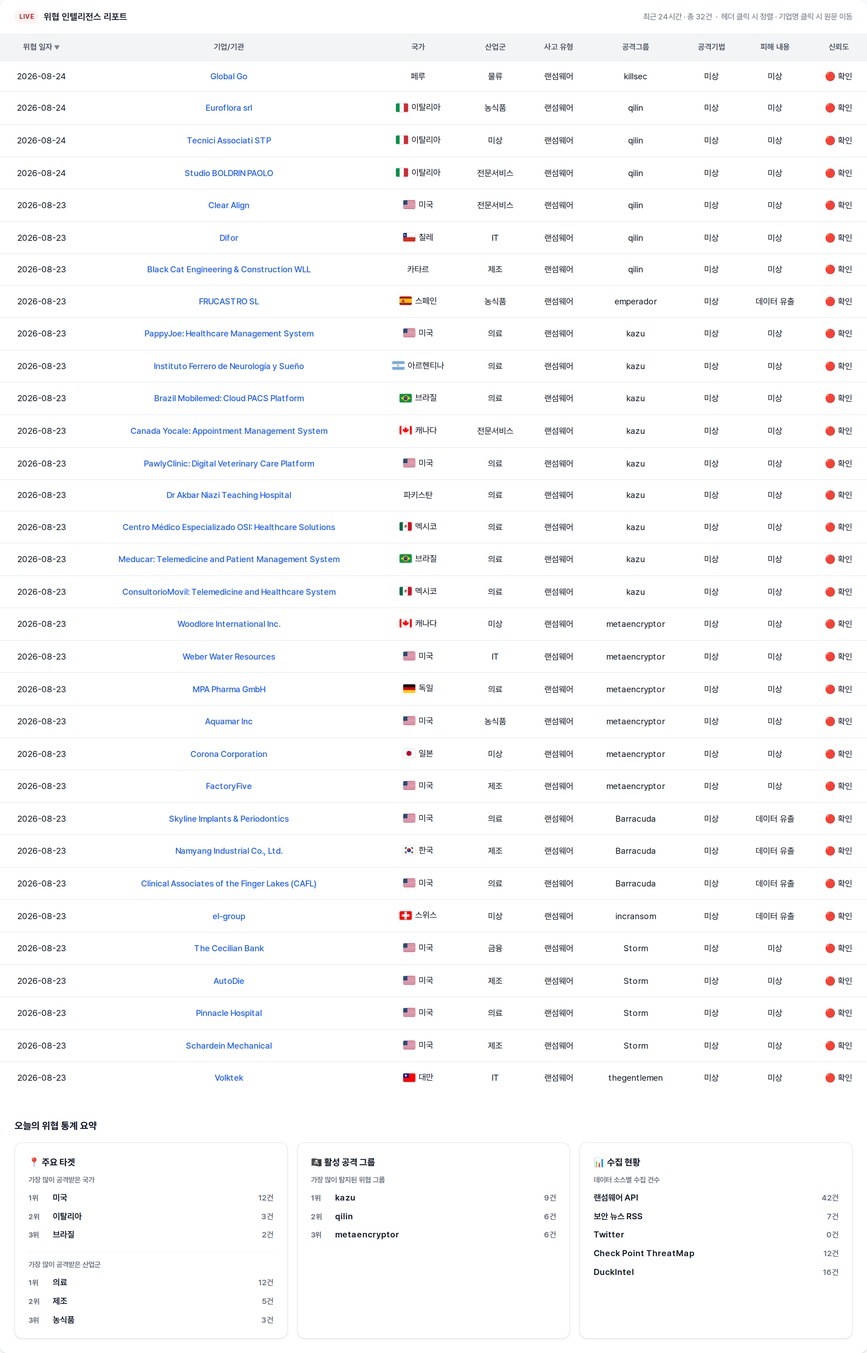
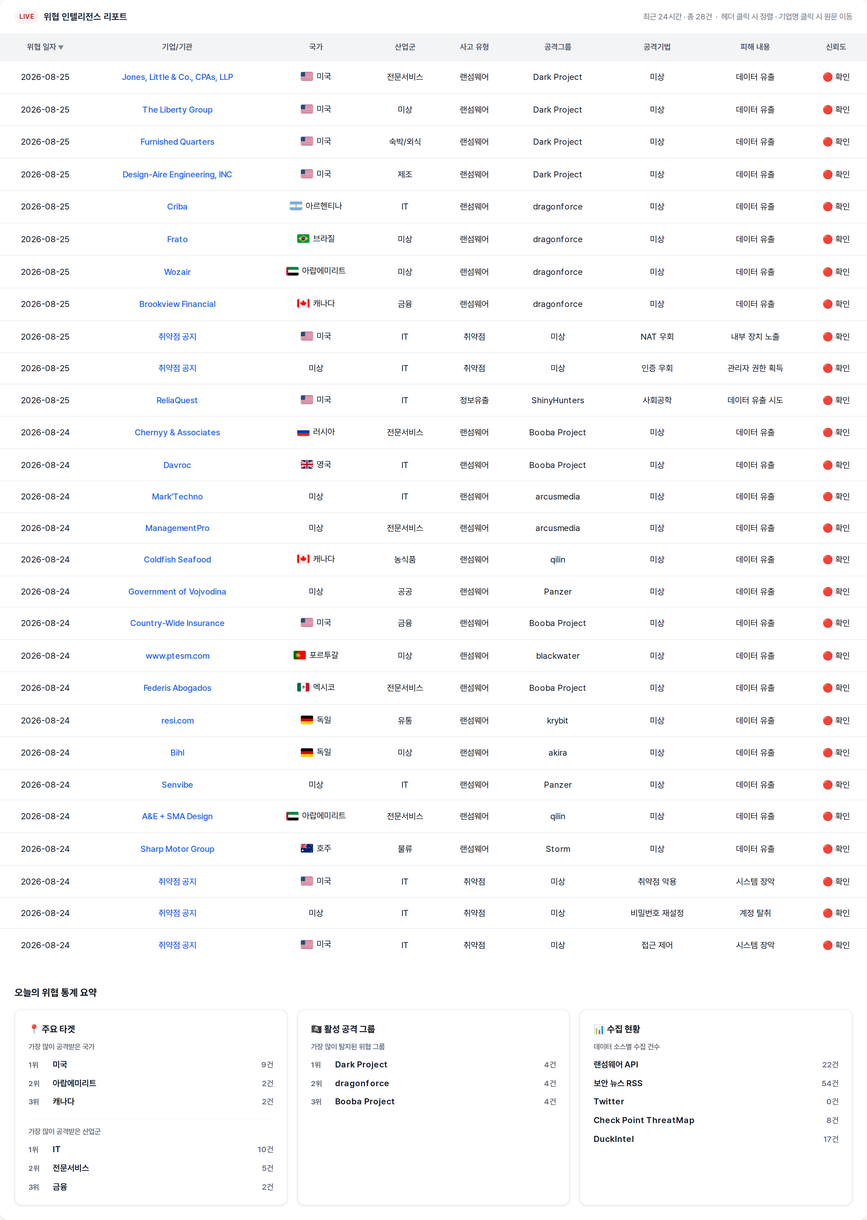
deploy: 9c533ad8fcaa3f846a31aadab046301a26f1192c

diff --git a/index.html b/index.html
@@ -3,7 +3,7 @@
 <head>
   <meta charset="UTF-8" />
   <meta name="viewport" content="width=device-width, initial-scale=1.0" />
-  <title>🚨 2026년 08월 24일 국내/해외 사이버 위협 현황</title>
+  <title>🚨 2026년 08월 25일 국내/해외 사이버 위협 현황</title>
   <link rel="preconnect" href="https://cdn.jsdelivr.net" />
   <link href="https://cdn.jsdelivr.net/gh/orioncactus/pretendard/dist/web/static/pretendard.css" rel="stylesheet" />
   <style>
@@ -253,7 +253,7 @@
 </head>
 <body>
   <div class="page-header">
-    <h1 class="page-title">🚨 2026년 08월 24일 국내/해외 사이버 위협 현황</h1>
+    <h1 class="page-title">🚨 2026년 08월 25일 국내/해외 사이버 위협 현황</h1>
   </div>
 
   <div class="dashboard">
@@ -261,44 +261,40 @@
     <div class="card-header">
       <span class="badge">LIVE</span>
       <span class="card-title">위협 인텔리전스 리포트</span>
-      <span class="card-count">최근 24시간 · 총 32건 &nbsp;·&nbsp; 헤더 클릭 시 정렬 · 기업명 클릭 시 원문 이동</span>
+      <span class="card-count">최근 24시간 · 총 28건 &nbsp;·&nbsp; 헤더 클릭 시 정렬 · 기업명 클릭 시 원문 이동</span>
     </div>
     <div class="table-wrap" style="overflow-x: auto; -webkit-overflow-scrolling: touch;">
       <table id="threat-table">
         <thead><tr><th onclick="sortTable(0)" data-col="0" class="sort-desc">위협 일자</th><th onclick="sortTable(1)" data-col="1">기업/기관</th><th onclick="sortTable(2)" data-col="2">국가</th><th onclick="sortTable(3)" data-col="3">산업군</th><th onclick="sortTable(4)" data-col="4">사고 유형</th><th onclick="sortTable(5)" data-col="5">공격그룹</th><th onclick="sortTable(6)" data-col="6">공격기법</th><th onclick="sortTable(7)" data-col="7">피해 내용</th><th onclick="sortTable(8)" data-col="8">신뢰도</th></tr></thead>
         <tbody>
-<tr><td>2026-08-24</td><td><a href="https://www.ransomware.live/id/R2xvYmFsIEdvQGtpbGxzZWM=" target="_blank" rel="noopener noreferrer">Global Go</a></td><td class="country"><span class="country-cell">페루</span></td><td>물류</td><td>랜섬웨어</td><td>killsec</td><td>미상</td><td>미상</td><td>🔴 확인</td></tr>
-<tr><td>2026-08-24</td><td><a href="https://www.ransomware.live/id/RXVyb2Zsb3JhIHNybEBxaWxpbg==" target="_blank" rel="noopener noreferrer">Euroflora srl</a></td><td class="country"><span class="country-cell"><img class="flag" src="https://flagcdn.com/w40/it.png" alt="이탈리아" width="20" height="14" />이탈리아</span></td><td>농식품</td><td>랜섬웨어</td><td>qilin</td><td>미상</td><td>미상</td><td>🔴 확인</td></tr>
-<tr><td>2026-08-24</td><td><a href="https://www.ransomware.live/id/VGVjbmljaSBBc3NvY2lhdGkgU1RQQHFpbGlu" target="_blank" rel="noopener noreferrer">Tecnici Associati STP</a></td><td class="country"><span class="country-cell"><img class="flag" src="https://flagcdn.com/w40/it.png" alt="이탈리아" width="20" height="14" />이탈리아</span></td><td>미상</td><td>랜섬웨어</td><td>qilin</td><td>미상</td><td>미상</td><td>🔴 확인</td></tr>
-<tr><td>2026-08-24</td><td><a href="https://www.ransomware.live/id/U3R1ZGlvIEJPTERSSU4gUEFPTE9AcWlsaW4=" target="_blank" rel="noopener noreferrer">Studio BOLDRIN PAOLO</a></td><td class="country"><span class="country-cell"><img class="flag" src="https://flagcdn.com/w40/it.png" alt="이탈리아" width="20" height="14" />이탈리아</span></td><td>전문서비스</td><td>랜섬웨어</td><td>qilin</td><td>미상</td><td>미상</td><td>🔴 확인</td></tr>
-<tr><td>2026-08-23</td><td><a href="https://www.ransomware.live/id/Q2xlYXIgQWxpZ25AcWlsaW4=" target="_blank" rel="noopener noreferrer">Clear Align</a></td><td class="country"><span class="country-cell"><img class="flag" src="https://flagcdn.com/w40/us.png" alt="미국" width="20" height="14" />미국</span></td><td>전문서비스</td><td>랜섬웨어</td><td>qilin</td><td>미상</td><td>미상</td><td>🔴 확인</td></tr>
-<tr><td>2026-08-23</td><td><a href="https://www.ransomware.live/id/RGlmb3JAcWlsaW4=" target="_blank" rel="noopener noreferrer">Difor</a></td><td class="country"><span class="country-cell"><img class="flag" src="https://flagcdn.com/w40/cl.png" alt="칠레" width="20" height="14" />칠레</span></td><td>IT</td><td>랜섬웨어</td><td>qilin</td><td>미상</td><td>미상</td><td>🔴 확인</td></tr>
-<tr><td>2026-08-23</td><td><a href="https://www.ransomware.live/id/QmxhY2sgQ2F0IEVuZ2luZWVyaW5nICYgQ29uc3RydWN0aW9uIFdMTEBxaWxpbg==" target="_blank" rel="noopener noreferrer">Black Cat Engineering &amp; Construction WLL</a></td><td class="country"><span class="country-cell">카타르</span></td><td>제조</td><td>랜섬웨어</td><td>qilin</td><td>미상</td><td>미상</td><td>🔴 확인</td></tr>
-<tr><td>2026-08-23</td><td><a href="https://www.ransomware.live/id/RlJVQ0FTVFJPIFNMQGVtcGVyYWRvcg==" target="_blank" rel="noopener noreferrer">FRUCASTRO SL</a></td><td class="country"><span class="country-cell"><img class="flag" src="https://flagcdn.com/w40/es.png" alt="스페인" width="20" height="14" />스페인</span></td><td>농식품</td><td>랜섬웨어</td><td>emperador</td><td>미상</td><td>데이터 유출</td><td>🔴 확인</td></tr>
-<tr><td>2026-08-23</td><td><a href="https://www.ransomware.live/id/UGFwcHlKb2U6IEhlYWx0aGNhcmUgTWFuYWdlbWVudCBTeXN0ZW1Aa2F6dQ==" target="_blank" rel="noopener noreferrer">PappyJoe: Healthcare Management System</a></td><td class="country"><span class="country-cell"><img class="flag" src="https://flagcdn.com/w40/us.png" alt="미국" width="20" height="14" />미국</span></td><td>의료</td><td>랜섬웨어</td><td>kazu</td><td>미상</td><td>미상</td><td>🔴 확인</td></tr>
-<tr><td>2026-08-23</td><td><a href="https://www.ransomware.live/id/SW5zdGl0dXRvIEZlcnJlcm8gZGUgTmV1cm9sb2fDrWEgeSBTdWXDsW9Aa2F6dQ==" target="_blank" rel="noopener noreferrer">Instituto Ferrero de Neurología y Sueño</a></td><td class="country"><span class="country-cell"><img class="flag" src="https://flagcdn.com/w40/ar.png" alt="아르헨티나" width="20" height="14" />아르헨티나</span></td><td>의료</td><td>랜섬웨어</td><td>kazu</td><td>미상</td><td>미상</td><td>🔴 확인</td></tr>
-<tr><td>2026-08-23</td><td><a href="https://www.ransomware.live/id/QnJhemlsIE1vYmlsZW1lZDogQ2xvdWQgUEFDUyBQbGF0Zm9ybUBrYXp1" target="_blank" rel="noopener noreferrer">Brazil Mobilemed: Cloud PACS Platform</a></td><td class="country"><span class="country-cell"><img class="flag" src="https://flagcdn.com/w40/br.png" alt="브라질" width="20" height="14" />브라질</span></td><td>의료</td><td>랜섬웨어</td><td>kazu</td><td>미상</td><td>미상</td><td>🔴 확인</td></tr>
-<tr><td>2026-08-23</td><td><a href="https://www.ransomware.live/id/Q2FuYWRhIFlvY2FsZTogQXBwb2ludG1lbnQgTWFuYWdlbWVudCBTeXN0ZW1Aa2F6dQ==" target="_blank" rel="noopener noreferrer">Canada Yocale: Appointment Management System</a></td><td class="country"><span class="country-cell"><img class="flag" src="https://flagcdn.com/w40/ca.png" alt="캐나다" width="20" height="14" />캐나다</span></td><td>전문서비스</td><td>랜섬웨어</td><td>kazu</td><td>미상</td><td>미상</td><td>🔴 확인</td></tr>
-<tr><td>2026-08-23</td><td><a href="https://www.ransomware.live/id/UGF3bHlDbGluaWM6IERpZ2l0YWwgVmV0ZXJpbmFyeSBDYXJlIFBsYXRmb3JtQGthenU=" target="_blank" rel="noopener noreferrer">PawlyClinic: Digital Veterinary Care Platform</a></td><td class="country"><span class="country-cell"><img class="flag" src="https://flagcdn.com/w40/us.png" alt="미국" width="20" height="14" />미국</span></td><td>의료</td><td>랜섬웨어</td><td>kazu</td><td>미상</td><td>미상</td><td>🔴 확인</td></tr>
-<tr><td>2026-08-23</td><td><a href="https://www.ransomware.live/id/RHIgQWtiYXIgTmlhemkgVGVhY2hpbmcgSG9zcGl0YWxAa2F6dQ==" target="_blank" rel="noopener noreferrer">Dr Akbar Niazi Teaching Hospital</a></td><td class="country"><span class="country-cell">파키스탄</span></td><td>의료</td><td>랜섬웨어</td><td>kazu</td><td>미상</td><td>미상</td><td>🔴 확인</td></tr>
-<tr><td>2026-08-23</td><td><a href="https://www.ransomware.live/id/Q2VudHJvIE3DqWRpY28gRXNwZWNpYWxpemFkbyBPU0k6IEhlYWx0aGNhcmUgU29sdXRpb25zQGthenU=" target="_blank" rel="noopener noreferrer">Centro Médico Especializado OSI: Healthcare Solutions</a></td><td class="country"><span class="country-cell"><img class="flag" src="https://flagcdn.com/w40/mx.png" alt="멕시코" width="20" height="14" />멕시코</span></td><td>의료</td><td>랜섬웨어</td><td>kazu</td><td>미상</td><td>미상</td><td>🔴 확인</td></tr>
-<tr><td>2026-08-23</td><td><a href="https://www.ransomware.live/id/TWVkdWNhcjogVGVsZW1lZGljaW5lIGFuZCBQYXRpZW50IE1hbmFnZW1lbnQgU3lzdGVtQGthenU=" target="_blank" rel="noopener noreferrer">Meducar: Telemedicine and Patient Management System</a></td><td class="country"><span class="country-cell"><img class="flag" src="https://flagcdn.com/w40/br.png" alt="브라질" width="20" height="14" />브라질</span></td><td>의료</td><td>랜섬웨어</td><td>kazu</td><td>미상</td><td>미상</td><td>🔴 확인</td></tr>
-<tr><td>2026-08-23</td><td><a href="https://www.ransomware.live/id/Q29uc3VsdG9yaW9Nb3ZpbDogVGVsZW1lZGljaW5lIGFuZCBIZWFsdGhjYXJlIFN5c3RlbUBrYXp1" target="_blank" rel="noopener noreferrer">ConsultorioMovil: Telemedicine and Healthcare System</a></td><td class="country"><span class="country-cell"><img class="flag" src="https://flagcdn.com/w40/mx.png" alt="멕시코" width="20" height="14" />멕시코</span></td><td>의료</td><td>랜섬웨어</td><td>kazu</td><td>미상</td><td>미상</td><td>🔴 확인</td></tr>
-<tr><td>2026-08-23</td><td><a href="https://www.ransomware.live/id/V29vZGxvcmUgSW50ZXJuYXRpb25hbCBJbmMuQG1ldGFlbmNyeXB0b3I=" target="_blank" rel="noopener noreferrer">Woodlore International Inc.</a></td><td class="country"><span class="country-cell"><img class="flag" src="https://flagcdn.com/w40/ca.png" alt="캐나다" width="20" height="14" />캐나다</span></td><td>미상</td><td>랜섬웨어</td><td>metaencryptor</td><td>미상</td><td>미상</td><td>🔴 확인</td></tr>
-<tr><td>2026-08-23</td><td><a href="https://www.ransomware.live/id/V2ViZXIgV2F0ZXIgUmVzb3VyY2VzQG1ldGFlbmNyeXB0b3I=" target="_blank" rel="noopener noreferrer">Weber Water Resources</a></td><td class="country"><span class="country-cell"><img class="flag" src="https://flagcdn.com/w40/us.png" alt="미국" width="20" height="14" />미국</span></td><td>IT</td><td>랜섬웨어</td><td>metaencryptor</td><td>미상</td><td>미상</td><td>🔴 확인</td></tr>
-<tr><td>2026-08-23</td><td><a href="https://www.ransomware.live/id/TVBBIFBoYXJtYSBHbWJIQG1ldGFlbmNyeXB0b3I=" target="_blank" rel="noopener noreferrer">MPA Pharma GmbH</a></td><td class="country"><span class="country-cell"><img class="flag" src="https://flagcdn.com/w40/de.png" alt="독일" width="20" height="14" />독일</span></td><td>의료</td><td>랜섬웨어</td><td>metaencryptor</td><td>미상</td><td>미상</td><td>🔴 확인</td></tr>
-<tr><td>2026-08-23</td><td><a href="https://www.ransomware.live/id/QXF1YW1hciBJbmNAbWV0YWVuY3J5cHRvcg==" target="_blank" rel="noopener noreferrer">Aquamar Inc</a></td><td class="country"><span class="country-cell"><img class="flag" src="https://flagcdn.com/w40/us.png" alt="미국" width="20" height="14" />미국</span></td><td>농식품</td><td>랜섬웨어</td><td>metaencryptor</td><td>미상</td><td>미상</td><td>🔴 확인</td></tr>
-<tr><td>2026-08-23</td><td><a href="https://www.ransomware.live/id/Q29yb25hIENvcnBvcmF0aW9uQG1ldGFlbmNyeXB0b3I=" target="_blank" rel="noopener noreferrer">Corona Corporation</a></td><td class="country"><span class="country-cell"><img class="flag" src="https://flagcdn.com/w40/jp.png" alt="일본" width="20" height="14" />일본</span></td><td>미상</td><td>랜섬웨어</td><td>metaencryptor</td><td>미상</td><td>미상</td><td>🔴 확인</td></tr>
-<tr><td>2026-08-23</td><td><a href="https://www.ransomware.live/id/RmFjdG9yeUZpdmVAbWV0YWVuY3J5cHRvcg==" target="_blank" rel="noopener noreferrer">FactoryFive</a></td><td class="country"><span class="country-cell"><img class="flag" src="https://flagcdn.com/w40/us.png" alt="미국" width="20" height="14" />미국</span></td><td>제조</td><td>랜섬웨어</td><td>metaencryptor</td><td>미상</td><td>미상</td><td>🔴 확인</td></tr>
-<tr><td>2026-08-23</td><td><a href="https://www.ransomware.live/id/U2t5bGluZSBJbXBsYW50cyAmIFBlcmlvZG9udGljc0BCYXJyYWN1ZGE=" target="_blank" rel="noopener noreferrer">Skyline Implants &amp; Periodontics</a></td><td class="country"><span class="country-cell"><img class="flag" src="https://flagcdn.com/w40/us.png" alt="미국" width="20" height="14" />미국</span></td><td>의료</td><td>랜섬웨어</td><td>Barracuda</td><td>미상</td><td>데이터 유출</td><td>🔴 확인</td></tr>
-<tr><td>2026-08-23</td><td><a href="https://www.ransomware.live/id/TmFteWFuZyBJbmR1c3RyaWFsIENvLiwgTHRkLkBCYXJyYWN1ZGE=" target="_blank" rel="noopener noreferrer">Namyang Industrial Co., Ltd.</a></td><td class="country"><span class="country-cell"><img class="flag" src="https://flagcdn.com/w40/kr.png" alt="한국" width="20" height="14" />한국</span></td><td>제조</td><td>랜섬웨어</td><td>Barracuda</td><td>미상</td><td>데이터 유출</td><td>🔴 확인</td></tr>
-<tr><td>2026-08-23</td><td><a href="https://www.ransomware.live/id/Q2xpbmljYWwgQXNzb2NpYXRlcyBvZiB0aGUgRmluZ2VyIExha2VzIChDQUZMKUBCYXJyYWN1ZGE=" target="_blank" rel="noopener noreferrer">Clinical Associates of the Finger Lakes (CAFL)</a></td><td class="country"><span class="country-cell"><img class="flag" src="https://flagcdn.com/w40/us.png" alt="미국" width="20" height="14" />미국</span></td><td>의료</td><td>랜섬웨어</td><td>Barracuda</td><td>미상</td><td>데이터 유출</td><td>🔴 확인</td></tr>
-<tr><td>2026-08-23</td><td><a href="https://www.ransomware.live/id/ZWwtZ3JvdXBAaW5jcmFuc29t" target="_blank" rel="noopener noreferrer">el-group</a></td><td class="country"><span class="country-cell"><img class="flag" src="https://flagcdn.com/w40/ch.png" alt="스위스" width="20" height="14" />스위스</span></td><td>미상</td><td>랜섬웨어</td><td>incransom</td><td>미상</td><td>데이터 유출</td><td>🔴 확인</td></tr>
-<tr><td>2026-08-23</td><td><a href="https://www.ransomware.live/id/VGhlIENlY2lsaWFuIEJhbmtAU3Rvcm0=" target="_blank" rel="noopener noreferrer">The Cecilian Bank</a></td><td class="country"><span class="country-cell"><img class="flag" src="https://flagcdn.com/w40/us.png" alt="미국" width="20" height="14" />미국</span></td><td>금융</td><td>랜섬웨어</td><td>Storm</td><td>미상</td><td>미상</td><td>🔴 확인</td></tr>
-<tr><td>2026-08-23</td><td><a href="https://www.ransomware.live/id/QXV0b0RpZUBTdG9ybQ==" target="_blank" rel="noopener noreferrer">AutoDie</a></td><td class="country"><span class="country-cell"><img class="flag" src="https://flagcdn.com/w40/us.png" alt="미국" width="20" height="14" />미국</span></td><td>제조</td><td>랜섬웨어</td><td>Storm</td><td>미상</td><td>미상</td><td>🔴 확인</td></tr>
-<tr><td>2026-08-23</td><td><a href="https://www.ransomware.live/id/UGlubmFjbGUgSG9zcGl0YWxAU3Rvcm0=" target="_blank" rel="noopener noreferrer">Pinnacle Hospital</a></td><td class="country"><span class="country-cell"><img class="flag" src="https://flagcdn.com/w40/us.png" alt="미국" width="20" height="14" />미국</span></td><td>의료</td><td>랜섬웨어</td><td>Storm</td><td>미상</td><td>미상</td><td>🔴 확인</td></tr>
-<tr><td>2026-08-23</td><td><a href="https://www.ransomware.live/id/U2NoYXJkZWluIE1lY2hhbmljYWxAU3Rvcm0=" target="_blank" rel="noopener noreferrer">Schardein Mechanical</a></td><td class="country"><span class="country-cell"><img class="flag" src="https://flagcdn.com/w40/us.png" alt="미국" width="20" height="14" />미국</span></td><td>제조</td><td>랜섬웨어</td><td>Storm</td><td>미상</td><td>미상</td><td>🔴 확인</td></tr>
-<tr><td>2026-08-23</td><td><a href="https://www.ransomware.live/id/Vm9sa3Rla0B0aGVnZW50bGVtZW4=" target="_blank" rel="noopener noreferrer">Volktek</a></td><td class="country"><span class="country-cell"><img class="flag" src="https://flagcdn.com/w40/tw.png" alt="대만" width="20" height="14" />대만</span></td><td>IT</td><td>랜섬웨어</td><td>thegentlemen</td><td>미상</td><td>미상</td><td>🔴 확인</td></tr>
+<tr><td>2026-08-25</td><td><a href="https://www.ransomware.live/id/Sm9uZXMsIExpdHRsZSAmIENvLiwgQ1BBcywgTExQQERhcmsgUHJvamVjdA==" target="_blank" rel="noopener noreferrer">Jones, Little &amp; Co., CPAs, LLP</a></td><td class="country"><span class="country-cell"><img class="flag" src="https://flagcdn.com/w40/us.png" alt="미국" width="20" height="14" />미국</span></td><td>전문서비스</td><td>랜섬웨어</td><td>Dark Project</td><td>미상</td><td>데이터 유출</td><td>🔴 확인</td></tr>
+<tr><td>2026-08-25</td><td><a href="https://www.ransomware.live/id/VGhlIExpYmVydHkgR3JvdXBARGFyayBQcm9qZWN0" target="_blank" rel="noopener noreferrer">The Liberty Group</a></td><td class="country"><span class="country-cell"><img class="flag" src="https://flagcdn.com/w40/us.png" alt="미국" width="20" height="14" />미국</span></td><td>미상</td><td>랜섬웨어</td><td>Dark Project</td><td>미상</td><td>데이터 유출</td><td>🔴 확인</td></tr>
+<tr><td>2026-08-25</td><td><a href="https://www.ransomware.live/id/RnVybmlzaGVkIFF1YXJ0ZXJzQERhcmsgUHJvamVjdA==" target="_blank" rel="noopener noreferrer">Furnished Quarters</a></td><td class="country"><span class="country-cell"><img class="flag" src="https://flagcdn.com/w40/us.png" alt="미국" width="20" height="14" />미국</span></td><td>숙박/외식</td><td>랜섬웨어</td><td>Dark Project</td><td>미상</td><td>데이터 유출</td><td>🔴 확인</td></tr>
+<tr><td>2026-08-25</td><td><a href="https://www.ransomware.live/id/RGVzaWduLUFpcmUgRW5naW5lZXJpbmcsIElOQ0BEYXJrIFByb2plY3Q=" target="_blank" rel="noopener noreferrer">Design-Aire Engineering, INC</a></td><td class="country"><span class="country-cell"><img class="flag" src="https://flagcdn.com/w40/us.png" alt="미국" width="20" height="14" />미국</span></td><td>제조</td><td>랜섬웨어</td><td>Dark Project</td><td>미상</td><td>데이터 유출</td><td>🔴 확인</td></tr>
+<tr><td>2026-08-25</td><td><a href="https://www.ransomware.live/id/Q3JpYmFAZHJhZ29uZm9yY2U=" target="_blank" rel="noopener noreferrer">Criba</a></td><td class="country"><span class="country-cell"><img class="flag" src="https://flagcdn.com/w40/ar.png" alt="아르헨티나" width="20" height="14" />아르헨티나</span></td><td>IT</td><td>랜섬웨어</td><td>dragonforce</td><td>미상</td><td>데이터 유출</td><td>🔴 확인</td></tr>
+<tr><td>2026-08-25</td><td><a href="https://www.ransomware.live/id/RnJhdG9AZHJhZ29uZm9yY2U=" target="_blank" rel="noopener noreferrer">Frato</a></td><td class="country"><span class="country-cell"><img class="flag" src="https://flagcdn.com/w40/br.png" alt="브라질" width="20" height="14" />브라질</span></td><td>미상</td><td>랜섬웨어</td><td>dragonforce</td><td>미상</td><td>데이터 유출</td><td>🔴 확인</td></tr>
+<tr><td>2026-08-25</td><td><a href="https://www.ransomware.live/id/V296YWlyQGRyYWdvbmZvcmNl" target="_blank" rel="noopener noreferrer">Wozair</a></td><td class="country"><span class="country-cell"><img class="flag" src="https://flagcdn.com/w40/ae.png" alt="아랍에미리트" width="20" height="14" />아랍에미리트</span></td><td>미상</td><td>랜섬웨어</td><td>dragonforce</td><td>미상</td><td>데이터 유출</td><td>🔴 확인</td></tr>
+<tr><td>2026-08-25</td><td><a href="https://www.ransomware.live/id/QnJvb2t2aWV3IEZpbmFuY2lhbEBkcmFnb25mb3JjZQ==" target="_blank" rel="noopener noreferrer">Brookview Financial</a></td><td class="country"><span class="country-cell"><img class="flag" src="https://flagcdn.com/w40/ca.png" alt="캐나다" width="20" height="14" />캐나다</span></td><td>금융</td><td>랜섬웨어</td><td>dragonforce</td><td>미상</td><td>데이터 유출</td><td>🔴 확인</td></tr>
+<tr><td>2026-08-25</td><td><a href="https://www.bleepingcomputer.com/news/security/unpatched-calix-flaw-lets-hackers-bypass-nat-to-expose-internal-devices/" target="_blank" rel="noopener noreferrer">취약점 공지</a></td><td class="country"><span class="country-cell"><img class="flag" src="https://flagcdn.com/w40/us.png" alt="미국" width="20" height="14" />미국</span></td><td>IT</td><td>취약점</td><td>미상</td><td>NAT 우회</td><td>내부 장치 노출</td><td>🔴 확인</td></tr>
+<tr><td>2026-08-25</td><td><a href="https://www.bleepingcomputer.com/news/security/hackers-target-wordpress-sites-in-miniorange-auth-bypass-attacks/" target="_blank" rel="noopener noreferrer">취약점 공지</a></td><td class="country"><span class="country-cell">미상</span></td><td>IT</td><td>취약점</td><td>미상</td><td>인증 우회</td><td>관리자 권한 획득</td><td>🔴 확인</td></tr>
+<tr><td>2026-08-25</td><td><a href="https://www.bleepingcomputer.com/news/security/reliaquest-confirms-failed-data-theft-attack-after-shinyhunters-breach/" target="_blank" rel="noopener noreferrer">ReliaQuest</a></td><td class="country"><span class="country-cell"><img class="flag" src="https://flagcdn.com/w40/us.png" alt="미국" width="20" height="14" />미국</span></td><td>IT</td><td>정보유출</td><td>ShinyHunters</td><td>사회공학</td><td>데이터 유출 시도</td><td>🔴 확인</td></tr>
+<tr><td>2026-08-24</td><td><a href="https://www.ransomware.live/id/Q2hlcm55eSAmIEFzc29jaWF0ZXNAQm9vYmEgUHJvamVjdA==" target="_blank" rel="noopener noreferrer">Chernyy &amp; Associates</a></td><td class="country"><span class="country-cell"><img class="flag" src="https://flagcdn.com/w40/ru.png" alt="러시아" width="20" height="14" />러시아</span></td><td>전문서비스</td><td>랜섬웨어</td><td>Booba Project</td><td>미상</td><td>데이터 유출</td><td>🔴 확인</td></tr>
+<tr><td>2026-08-24</td><td><a href="https://www.ransomware.live/id/RGF2cm9jQEJvb2JhIFByb2plY3Q=" target="_blank" rel="noopener noreferrer">Davroc</a></td><td class="country"><span class="country-cell"><img class="flag" src="https://flagcdn.com/w40/gb.png" alt="영국" width="20" height="14" />영국</span></td><td>IT</td><td>랜섬웨어</td><td>Booba Project</td><td>미상</td><td>데이터 유출</td><td>🔴 확인</td></tr>
+<tr><td>2026-08-24</td><td><a href="https://www.ransomware.live/id/TWFya+KAmVRlY2hub0BhcmN1c21lZGlh" target="_blank" rel="noopener noreferrer">Mark’Techno</a></td><td class="country"><span class="country-cell">미상</span></td><td>IT</td><td>랜섬웨어</td><td>arcusmedia</td><td>미상</td><td>데이터 유출</td><td>🔴 확인</td></tr>
+<tr><td>2026-08-24</td><td><a href="https://www.ransomware.live/id/TWFuYWdlbWVudFByb0BhcmN1c21lZGlh" target="_blank" rel="noopener noreferrer">ManagementPro</a></td><td class="country"><span class="country-cell">미상</span></td><td>전문서비스</td><td>랜섬웨어</td><td>arcusmedia</td><td>미상</td><td>데이터 유출</td><td>🔴 확인</td></tr>
+<tr><td>2026-08-24</td><td><a href="https://www.ransomware.live/id/Q29sZGZpc2ggU2VhZm9vZEBxaWxpbg==" target="_blank" rel="noopener noreferrer">Coldfish Seafood</a></td><td class="country"><span class="country-cell"><img class="flag" src="https://flagcdn.com/w40/ca.png" alt="캐나다" width="20" height="14" />캐나다</span></td><td>농식품</td><td>랜섬웨어</td><td>qilin</td><td>미상</td><td>데이터 유출</td><td>🔴 확인</td></tr>
+<tr><td>2026-08-24</td><td><a href="https://www.ransomware.live/id/R292ZXJubWVudCBvZiBWb2p2b2RpbmFAUGFuemVy" target="_blank" rel="noopener noreferrer">Government of Vojvodina</a></td><td class="country"><span class="country-cell">미상</span></td><td>공공</td><td>랜섬웨어</td><td>Panzer</td><td>미상</td><td>데이터 유출</td><td>🔴 확인</td></tr>
+<tr><td>2026-08-24</td><td><a href="https://www.ransomware.live/id/Q291bnRyeS1XaWRlIEluc3VyYW5jZUBCb29iYSBQcm9qZWN0" target="_blank" rel="noopener noreferrer">Country-Wide Insurance</a></td><td class="country"><span class="country-cell"><img class="flag" src="https://flagcdn.com/w40/us.png" alt="미국" width="20" height="14" />미국</span></td><td>금융</td><td>랜섬웨어</td><td>Booba Project</td><td>미상</td><td>데이터 유출</td><td>🔴 확인</td></tr>
+<tr><td>2026-08-24</td><td><a href="https://www.ransomware.live/id/d3d3LnB0ZXNtLmNvbUBibGFja3dhdGVy" target="_blank" rel="noopener noreferrer">www.ptesm.com</a></td><td class="country"><span class="country-cell"><img class="flag" src="https://flagcdn.com/w40/pt.png" alt="포르투갈" width="20" height="14" />포르투갈</span></td><td>미상</td><td>랜섬웨어</td><td>blackwater</td><td>미상</td><td>데이터 유출</td><td>🔴 확인</td></tr>
+<tr><td>2026-08-24</td><td><a href="https://www.ransomware.live/id/RmVkZXJpcyBBYm9nYWRvc0BCb29iYSBQcm9qZWN0" target="_blank" rel="noopener noreferrer">Federis Abogados</a></td><td class="country"><span class="country-cell"><img class="flag" src="https://flagcdn.com/w40/mx.png" alt="멕시코" width="20" height="14" />멕시코</span></td><td>전문서비스</td><td>랜섬웨어</td><td>Booba Project</td><td>미상</td><td>데이터 유출</td><td>🔴 확인</td></tr>
+<tr><td>2026-08-24</td><td><a href="https://www.ransomware.live/id/cmVzaS5jb21Aa3J5Yml0" target="_blank" rel="noopener noreferrer">resi.com</a></td><td class="country"><span class="country-cell"><img class="flag" src="https://flagcdn.com/w40/de.png" alt="독일" width="20" height="14" />독일</span></td><td>유통</td><td>랜섬웨어</td><td>krybit</td><td>미상</td><td>데이터 유출</td><td>🔴 확인</td></tr>
+<tr><td>2026-08-24</td><td><a href="https://www.ransomware.live/id/QmlobEBha2lyYQ==" target="_blank" rel="noopener noreferrer">Bihl</a></td><td class="country"><span class="country-cell"><img class="flag" src="https://flagcdn.com/w40/de.png" alt="독일" width="20" height="14" />독일</span></td><td>미상</td><td>랜섬웨어</td><td>akira</td><td>미상</td><td>데이터 유출</td><td>🔴 확인</td></tr>
+<tr><td>2026-08-24</td><td><a href="https://www.ransomware.live/id/U2VudmliZUBQYW56ZXI=" target="_blank" rel="noopener noreferrer">Senvibe</a></td><td class="country"><span class="country-cell">미상</span></td><td>IT</td><td>랜섬웨어</td><td>Panzer</td><td>미상</td><td>데이터 유출</td><td>🔴 확인</td></tr>
+<tr><td>2026-08-24</td><td><a href="https://www.ransomware.live/id/QSZFICsgU01BIERlc2lnbkBxaWxpbg==" target="_blank" rel="noopener noreferrer">A&amp;E + SMA Design</a></td><td class="country"><span class="country-cell"><img class="flag" src="https://flagcdn.com/w40/ae.png" alt="아랍에미리트" width="20" height="14" />아랍에미리트</span></td><td>전문서비스</td><td>랜섬웨어</td><td>qilin</td><td>미상</td><td>데이터 유출</td><td>🔴 확인</td></tr>
+<tr><td>2026-08-24</td><td><a href="https://www.ransomware.live/id/U2hhcnAgTW90b3IgR3JvdXBAU3Rvcm0=" target="_blank" rel="noopener noreferrer">Sharp Motor Group</a></td><td class="country"><span class="country-cell"><img class="flag" src="https://flagcdn.com/w40/au.png" alt="호주" width="20" height="14" />호주</span></td><td>물류</td><td>랜섬웨어</td><td>Storm</td><td>미상</td><td>데이터 유출</td><td>🔴 확인</td></tr>
+<tr><td>2026-08-24</td><td><a href="https://www.bleepingcomputer.com/news/security/cisa-orders-urgent-patching-of-actively-exploited-zimbra-flaw/" target="_blank" rel="noopener noreferrer">취약점 공지</a></td><td class="country"><span class="country-cell"><img class="flag" src="https://flagcdn.com/w40/us.png" alt="미국" width="20" height="14" />미국</span></td><td>IT</td><td>취약점</td><td>미상</td><td>취약점 악용</td><td>시스템 장악</td><td>🔴 확인</td></tr>
+<tr><td>2026-08-24</td><td><a href="https://www.thehackernews.com/2026/08/critical-keycloak-password-reset-flaw.html" target="_blank" rel="noopener noreferrer">취약점 공지</a></td><td class="country"><span class="country-cell">미상</span></td><td>IT</td><td>취약점</td><td>미상</td><td>비밀번호 재설정</td><td>계정 탈취</td><td>🔴 확인</td></tr>
+<tr><td>2026-08-24</td><td><a href="https://nvd.nist.gov/vuln/detail/CVE-2026-21962" target="_blank" rel="noopener noreferrer">취약점 공지</a></td><td class="country"><span class="country-cell"><img class="flag" src="https://flagcdn.com/w40/us.png" alt="미국" width="20" height="14" />미국</span></td><td>IT</td><td>취약점</td><td>미상</td><td>접근 제어</td><td>시스템 장악</td><td>🔴 확인</td></tr>
         </tbody>
       </table>
     </div>
@@ -309,19 +305,19 @@
       <article class="stat-card">
         <h3 class="stat-title">📍 주요 타겟</h3>
         <p class="stat-subtitle">가장 많이 공격받은 국가</p>
-        <ol class="stat-list"><li><span class="stat-rank">1위</span><span class="stat-name">미국</span><span class="stat-count">12건</span></li><li><span class="stat-rank">2위</span><span class="stat-name">이탈리아</span><span class="stat-count">3건</span></li><li><span class="stat-rank">3위</span><span class="stat-name">브라질</span><span class="stat-count">2건</span></li></ol>
+        <ol class="stat-list"><li><span class="stat-rank">1위</span><span class="stat-name">미국</span><span class="stat-count">9건</span></li><li><span class="stat-rank">2위</span><span class="stat-name">아랍에미리트</span><span class="stat-count">2건</span></li><li><span class="stat-rank">3위</span><span class="stat-name">캐나다</span><span class="stat-count">2건</span></li></ol>
         <p class="stat-subtitle stat-subtitle-gap">가장 많이 공격받은 산업군</p>
-        <ol class="stat-list"><li><span class="stat-rank">1위</span><span class="stat-name">의료</span><span class="stat-count">12건</span></li><li><span class="stat-rank">2위</span><span class="stat-name">제조</span><span class="stat-count">5건</span></li><li><span class="stat-rank">3위</span><span class="stat-name">농식품</span><span class="stat-count">3건</span></li></ol>
+        <ol class="stat-list"><li><span class="stat-rank">1위</span><span class="stat-name">IT</span><span class="stat-count">10건</span></li><li><span class="stat-rank">2위</span><span class="stat-name">전문서비스</span><span class="stat-count">5건</span></li><li><span class="stat-rank">3위</span><span class="stat-name">금융</span><span class="stat-count">2건</span></li></ol>
       </article>
       <article class="stat-card">
         <h3 class="stat-title">🏴☠ 활성 공격 그룹</h3>
         <p class="stat-subtitle">가장 많이 탐지된 위협 그룹</p>
-        <ol class="stat-list"><li><span class="stat-rank">1위</span><span class="stat-name">kazu</span><span class="stat-count">9건</span></li><li><span class="stat-rank">2위</span><span class="stat-name">qilin</span><span class="stat-count">6건</span></li><li><span class="stat-rank">3위</span><span class="stat-name">metaencryptor</span><span class="stat-count">6건</span></li></ol>
+        <ol class="stat-list"><li><span class="stat-rank">1위</span><span class="stat-name">Dark Project</span><span class="stat-count">4건</span></li><li><span class="stat-rank">2위</span><span class="stat-name">dragonforce</span><span class="stat-count">4건</span></li><li><span class="stat-rank">3위</span><span class="stat-name">Booba Project</span><span class="stat-count">4건</span></li></ol>
       </article>
       <article class="stat-card">
         <h3 class="stat-title">📊 수집 현황</h3>
         <p class="stat-subtitle">데이터 소스별 수집 건수</p>
-        <ul class="stat-list stat-sources"><li><span class="stat-name">랜섬웨어 API</span><span class="stat-count">42건</span></li><li><span class="stat-name">보안 뉴스 RSS</span><span class="stat-count">7건</span></li><li><span class="stat-name">Twitter</span><span class="stat-count">0건</span></li><li><span class="stat-name">Check Point ThreatMap</span><span class="stat-count">12건</span></li><li><span class="stat-name">DuckIntel</span><span class="stat-count">16건</span></li></ul>
+        <ul class="stat-list stat-sources"><li><span class="stat-name">랜섬웨어 API</span><span class="stat-count">22건</span></li><li><span class="stat-name">보안 뉴스 RSS</span><span class="stat-count">54건</span></li><li><span class="stat-name">Twitter</span><span class="stat-count">0건</span></li><li><span class="stat-name">Check Point ThreatMap</span><span class="stat-count">8건</span></li><li><span class="stat-name">DuckIntel</span><span class="stat-count">17건</span></li></ul>
       </article>
     </div>
   </section>
